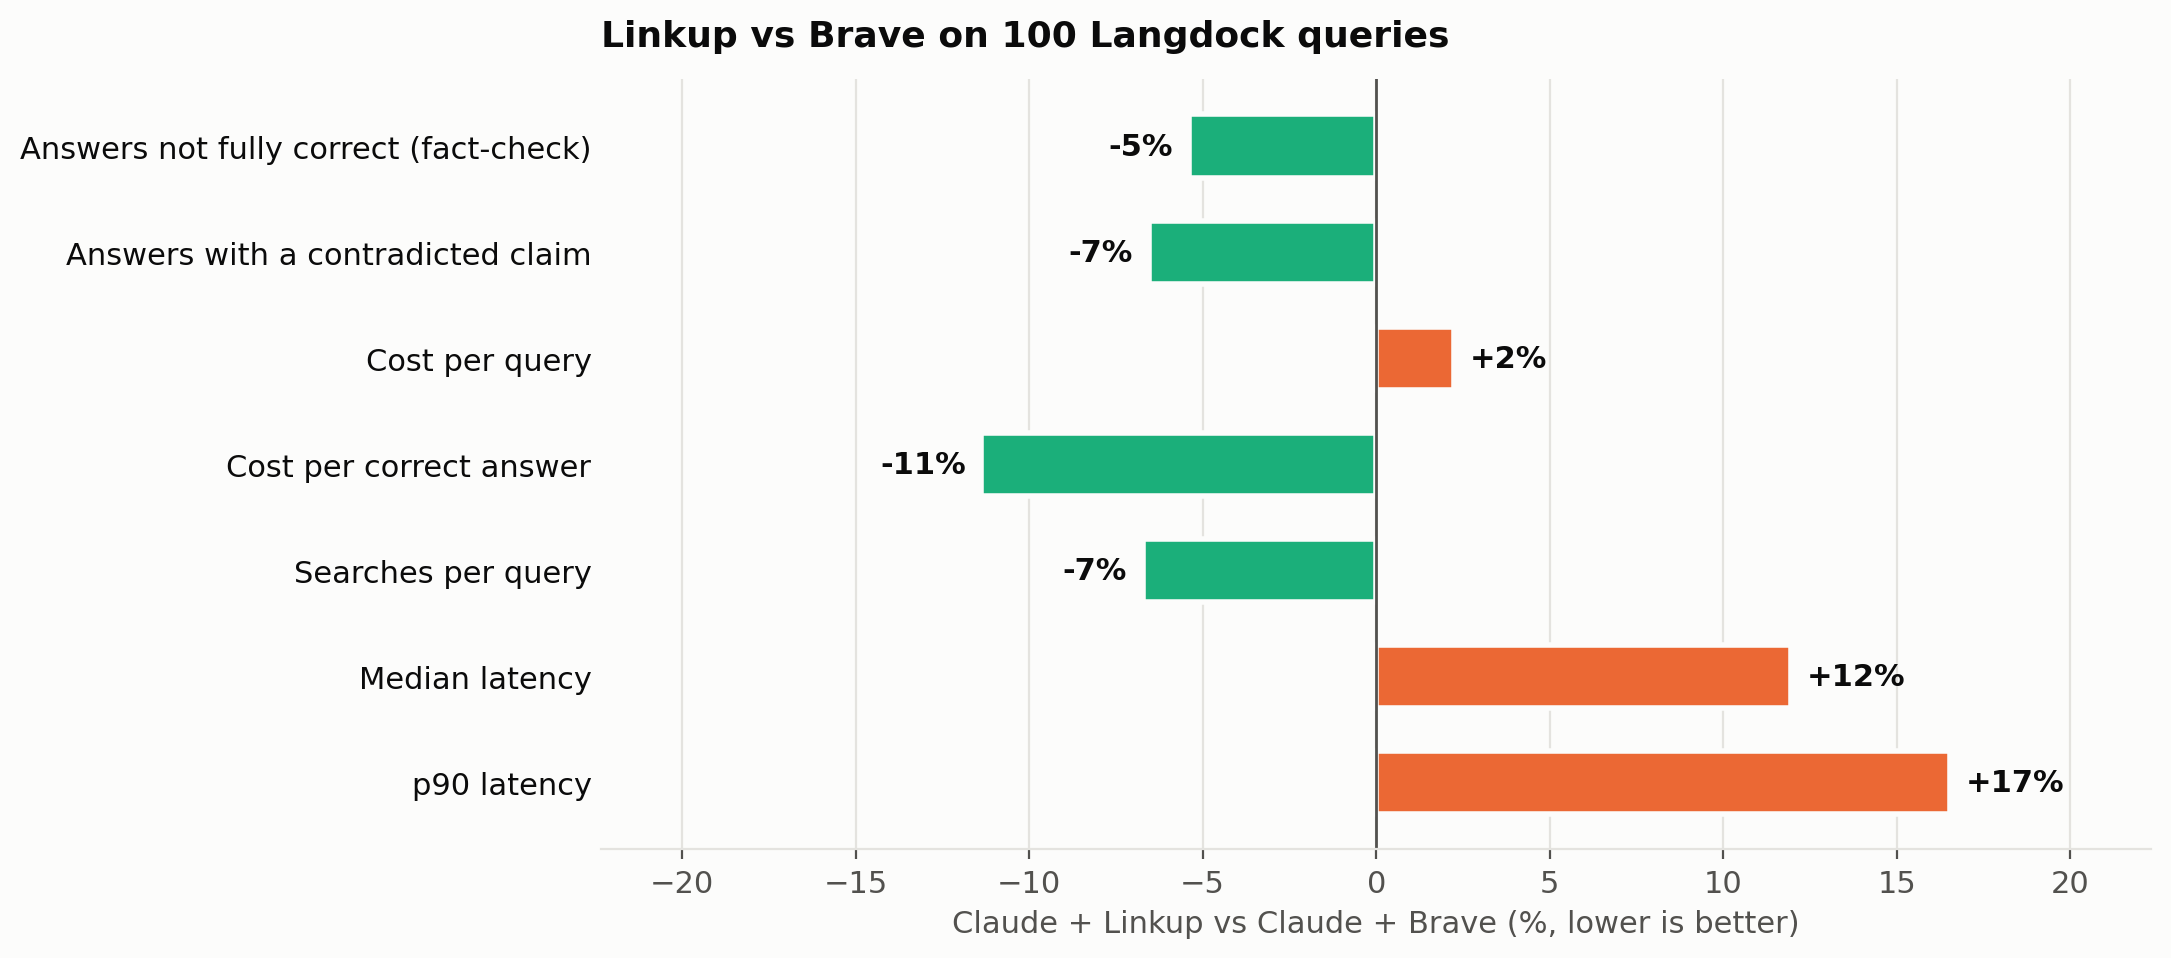
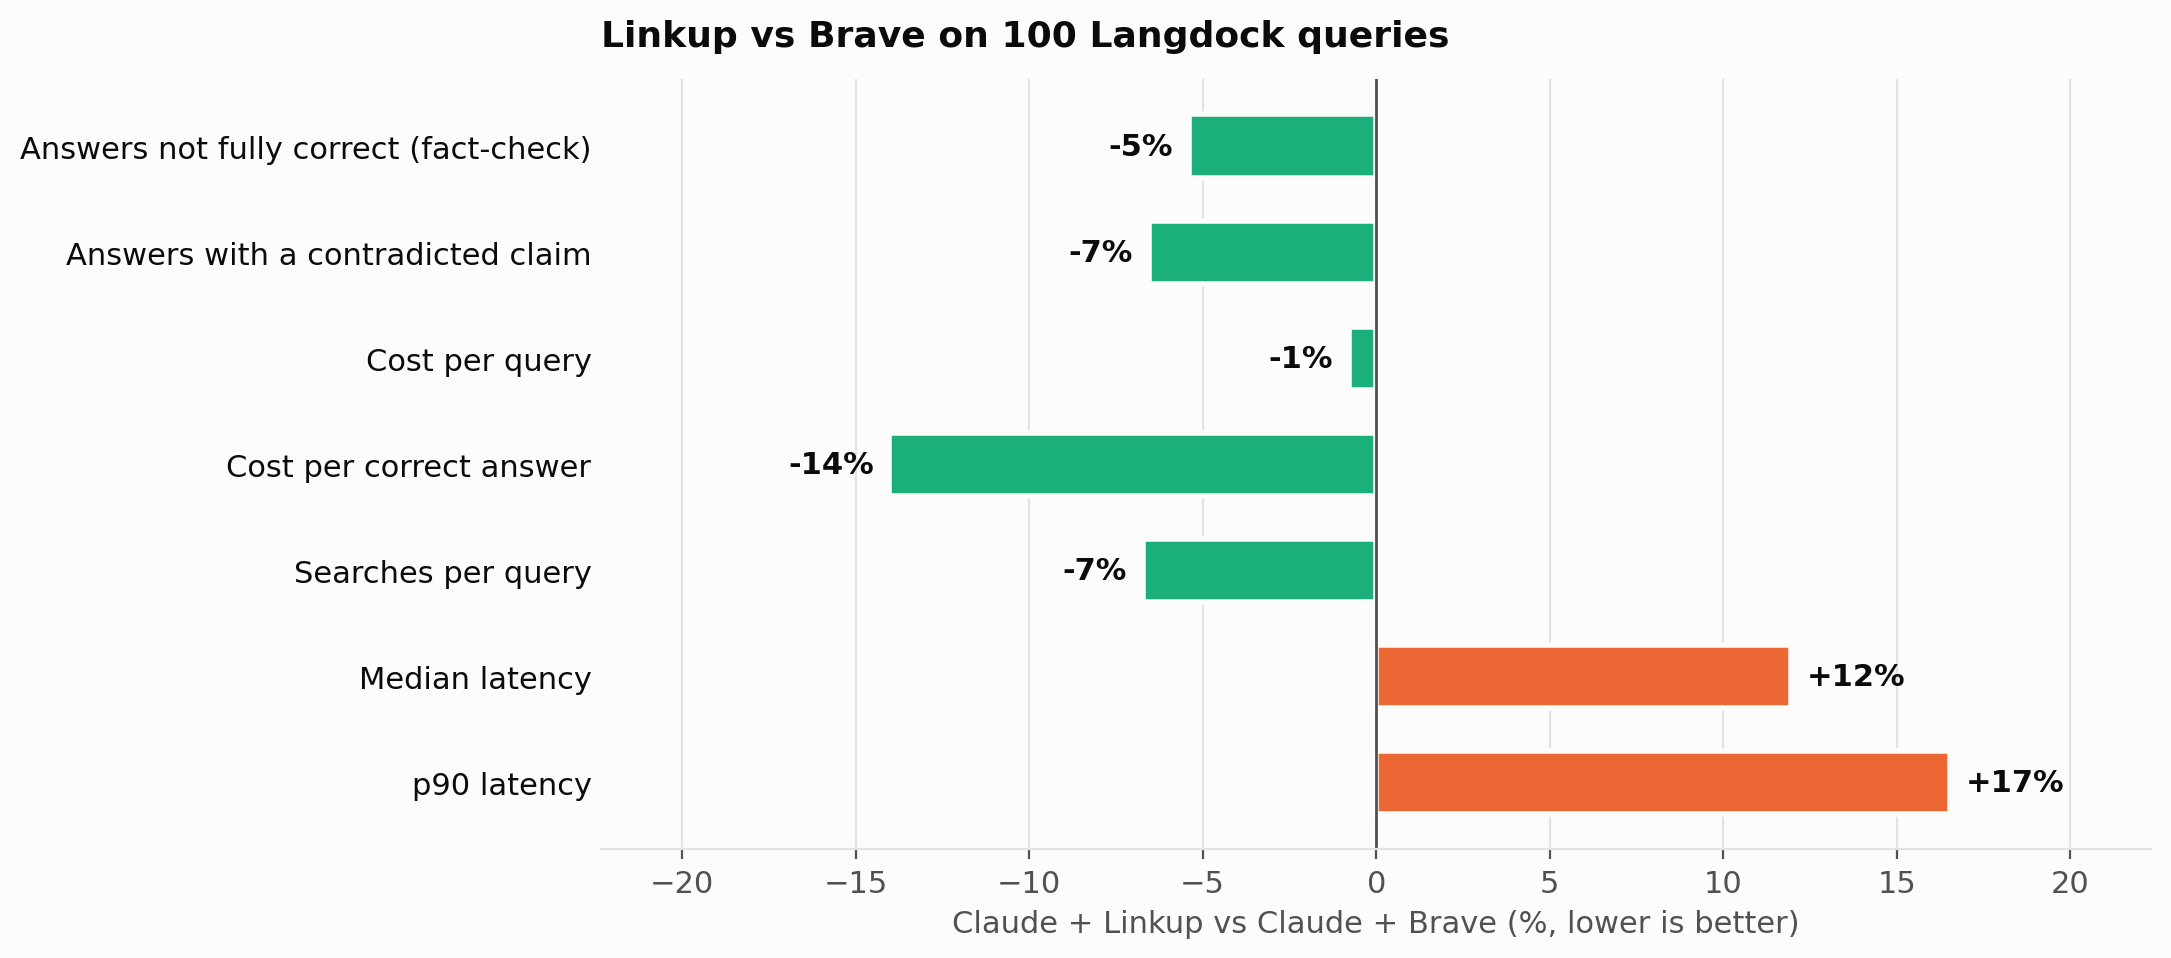
Price Linkup search at the $4/1k offered to Langdock

Changed region(s): [[0.5864, 0.333, 0.7098, 0.4238], [0.3703, 0.4541, 0.4629, 0.5146]]

diff --git a/build.py b/build.py
@@ -29,7 +29,7 @@ VLABEL = {"correct": "Correct", "partial": "Partial", "incorrect": "Incorrect", 
 PRICE = {
     "sonnet_input": 2.00, "sonnet_output": 10.00, "sonnet_cache_read": 0.20, "sonnet_cache_write": 2.50,  # per 1M tokens
     "brave_search": 5.00,  # Brave Search API (Search plan, extra snippets included), per 1,000 requests
-    "linkup_search": 5.00,  # Linkup fast searchResults, per 1,000 calls
+    "linkup_search": 4.00,  # Linkup fast searchResults, per 1,000 calls: price offered to Langdock (20% off the $5.00 list price)
 }
 VOLS = [1_000_000, 5_000_000, 10_000_000]  # Langdock's expected monthly range
 
@@ -115,7 +115,7 @@ M = {}
 for a in ARMS:
     g = [fc[(i, a)] for i in ids]
     r = [answers[a][i] for i in ids]
-    fees = [x["search_fee"] for x in r]
+    fees = [x["searches"] * PRICE[f"{a}_search"] / 1000 for x in r]
     usage = [billed_usage(a, x["usage"]) for x in r]
     toks = [token_cost(u) for u in usage]
     total = [f + t for f, t in zip(fees, toks)]
@@ -417,7 +417,7 @@ Claude Sonnet 5.5 answered {N} of Langdock's search queries twice: once with the
 | Model | `claude-sonnet-5-5` | `claude-sonnet-5-5` |
 | Search | Brave Web Search API `/res/v1/web/search`: 10 results, `extra_snippets=true` (title, URL, date, description and up to 5 extra excerpts per result) | Linkup `/v1/search`: `fast` depth, `searchResults`, 10 results |
 | Search cap | 10 per query | 10 per query |
-| Search price | ${PRICE['brave_search']:.2f} per 1,000 requests | ${PRICE['linkup_search']:.2f} per 1,000 calls |
+| Search price | ${PRICE['brave_search']:.2f} per 1,000 requests (list) | ${PRICE['linkup_search']:.2f} per 1,000 calls (offered to Langdock; list $5.00) |
 
 Claude decides what to search for and how often. Each tool description asks for the query style its provider is built for: keyword queries for Brave, natural-language retrieval instructions for Linkup. Brave runs with its default settings (no `country` or `search_lang`), and Linkup has no location setting, so neither arm gets a location hint.
 
@@ -449,7 +449,7 @@ Claude decides what to search for and how often. Each tool description asks for 
 
 Linkup cost reflects the snippet compressor (30% fewer retrieved tokens), releasing the week of October 19, 2026.
 
-Both search APIs cost $5 per 1,000 calls at list price, so the cost gap comes from how many searches Claude makes and how much text it reads and writes. List prices: Sonnet 5.5 ${PRICE['sonnet_input']:.2f} / ${PRICE['sonnet_output']:.2f} per million input / output tokens (cache reads ${PRICE['sonnet_cache_read']:.2f}, cache writes ${PRICE['sonnet_cache_write']:.2f}); Brave Search plan ${PRICE['brave_search']:.2f} per 1,000 requests (extra snippets included); Linkup `fast` ${PRICE['linkup_search']:.2f} per 1,000 calls. Volume discounts on either side are not included.
+Search fees are Brave at its $5.00 list price and Linkup at the $4.00 per 1,000 calls offered to Langdock (20% off list); the rest of the cost gap comes from how much text Claude reads and writes. Prices: Sonnet 5.5 ${PRICE['sonnet_input']:.2f} / ${PRICE['sonnet_output']:.2f} per million input / output tokens (cache reads ${PRICE['sonnet_cache_read']:.2f}, cache writes ${PRICE['sonnet_cache_write']:.2f}); Brave Search plan ${PRICE['brave_search']:.2f} per 1,000 requests (extra snippets included); Linkup `fast` ${PRICE['linkup_search']:.2f} per 1,000 calls. Any volume discount Brave offers Langdock is not included.
 
 ## Latency
 

diff --git a/README.md b/README.md
@@ -4,7 +4,7 @@ Claude Sonnet 5.5 answered 100 of Langdock's search queries twice: once with the
 
 - **Blind A/B:** Linkup's answer was better on 49 queries and Brave's on 47, with 4 ties (sign test p = 0.92).
 - **Fact-check:** 30 of Linkup's answers were fully correct vs 26 of Brave's; average score 81.5 vs 79.4 out of 100.
-- **Cost per query:** Linkup $0.0697, Brave $0.0682 (2% higher); per correct answer Linkup $0.2324, Brave $0.2622 (11% lower).
+- **Cost per query:** Linkup $0.0676, Brave $0.0682 (1% lower); per correct answer Linkup $0.2255, Brave $0.2622 (14% lower).
 - **Median latency:** Linkup 14.8s, Brave 13.2s (12% higher).
 
 ![Linkup vs Brave on every headline metric](charts/comparison.png)
@@ -16,7 +16,7 @@ Claude Sonnet 5.5 answered 100 of Langdock's search queries twice: once with the
 | Model | `claude-sonnet-5-5` | `claude-sonnet-5-5` |
 | Search | Brave Web Search API `/res/v1/web/search`: 10 results, `extra_snippets=true` (title, URL, date, description and up to 5 extra excerpts per result) | Linkup `/v1/search`: `fast` depth, `searchResults`, 10 results |
 | Search cap | 10 per query | 10 per query |
-| Search price | $5.00 per 1,000 requests | $5.00 per 1,000 calls |
+| Search price | $5.00 per 1,000 requests (list) | $4.00 per 1,000 calls (offered to Langdock; list $5.00) |
 
 Claude decides what to search for and how often. Each tool description asks for the query style its provider is built for: keyword queries for Brave, natural-language retrieval instructions for Linkup. Brave runs with its default settings (no `country` or `search_lang`), and Linkup has no location setting, so neither arm gets a location hint.
 
@@ -70,9 +70,9 @@ Claude decides what to search for and how often. Each tool description asks for 
 
 | Per query | Brave | Linkup | Linkup vs Brave |
 |---|---|---|---|
-| Total cost | $0.0682 | $0.0697 | 2% higher |
-| Cost per correct answer | $0.2622 | $0.2324 | 11% lower |
-| Search fees | $0.0112 | $0.0104 | 7% lower |
+| Total cost | $0.0682 | $0.0676 | 1% lower |
+| Cost per correct answer | $0.2622 | $0.2255 | 14% lower |
+| Search fees | $0.0112 | $0.0083 | 25% lower |
 | Model tokens | $0.0570 | $0.0593 | 4% higher |
 | Searches | 2.23 | 2.08 | 7% lower |
 | Input tokens (incl. cache) | 18,488 | 20,227 | 9% higher |
@@ -80,13 +80,13 @@ Claude decides what to search for and how often. Each tool description asks for 
 
 | Queries per month | Brave | Linkup | Difference |
 |---|---|---|---|
-| 1,000,000 | $68,183 | $69,720 | Brave $1,537 cheaper |
-| 5,000,000 | $340,916 | $348,599 | Brave $7,683 cheaper |
-| 10,000,000 | $681,833 | $697,199 | Brave $15,366 cheaper |
+| 1,000,000 | $68,183 | $67,640 | Linkup $543 cheaper |
+| 5,000,000 | $340,916 | $338,199 | Linkup $2,717 cheaper |
+| 10,000,000 | $681,833 | $676,399 | Linkup $5,434 cheaper |
 
 Linkup cost reflects the snippet compressor (30% fewer retrieved tokens), releasing the week of October 19, 2026.
 
-Both search APIs cost $5 per 1,000 calls at list price, so the cost gap comes from how many searches Claude makes and how much text it reads and writes. List prices: Sonnet 5.5 $2.00 / $10.00 per million input / output tokens (cache reads $0.20, cache writes $2.50); Brave Search plan $5.00 per 1,000 requests (extra snippets included); Linkup `fast` $5.00 per 1,000 calls. Volume discounts on either side are not included.
+Search fees are Brave at its $5.00 list price and Linkup at the $4.00 per 1,000 calls offered to Langdock (20% off list); the rest of the cost gap comes from how much text Claude reads and writes. Prices: Sonnet 5.5 $2.00 / $10.00 per million input / output tokens (cache reads $0.20, cache writes $2.50); Brave Search plan $5.00 per 1,000 requests (extra snippets included); Linkup `fast` $4.00 per 1,000 calls. Any volume discount Brave offers Langdock is not included.
 
 ## Latency
 
